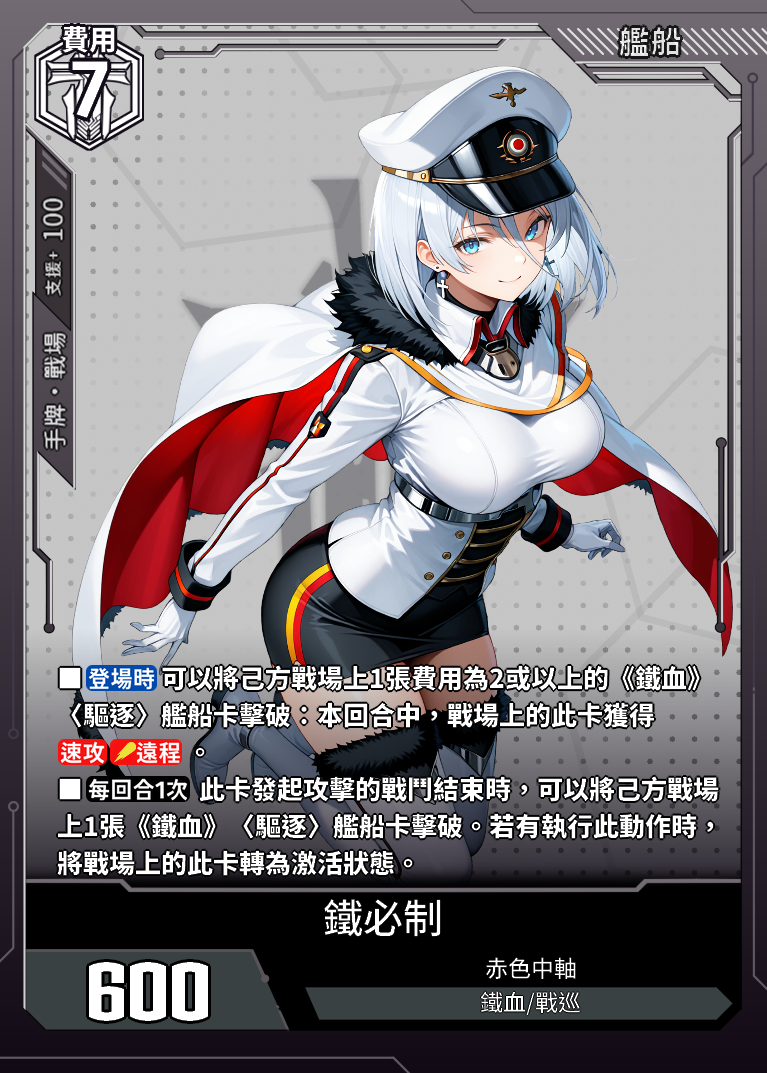
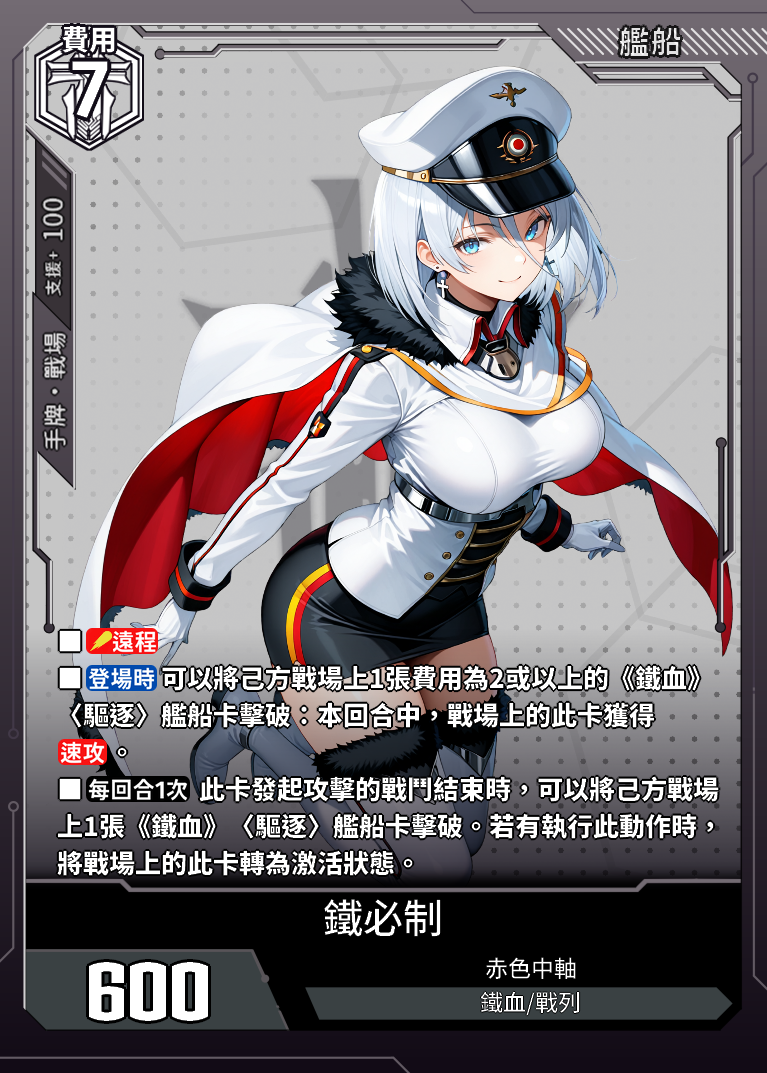
改CE03早期測試

Changed region(s): [[0.1199, 0.6766, 0.2699, 0.7381], [0.06, 0.5843, 0.2099, 0.6151], [0.7197, 0.9226, 0.7797, 0.9534]]

diff --git a/data.js b/data.js
@@ -27283,7 +27283,7 @@ const cards = [
             "支援範圍": "手牌·戰場",
             "支援值": "100"
         },
-        "card_effect": "■【登場時】可以將己方戰場上1張費用為2或以上的《鐵血》〈驅逐〉艦船卡擊破：本回合中，此卡獲得【速攻】【遠程】。■【每回合1次】此卡發起攻擊的戰鬥結束時，可以將己方戰場上1張《鐵血》〈驅逐〉艦船卡擊破。若有執行此動作時，將戰場上的此卡轉為激活狀態。",
+        "card_effect": "■【遠程】■【登場時】可以將己方戰場上1張費用為2或以上的《鐵血》〈驅逐〉艦船卡擊破：本回合中，此卡獲得【速攻】。■【每回合1次】此卡發起攻擊的戰鬥結束時，可以將己方戰場上1張《鐵血》〈驅逐〉艦船卡擊破。若有執行此動作時，將戰場上的此卡轉為激活狀態。",
         "acquisition_method": "CE03-早期測試"
     },
 	{
